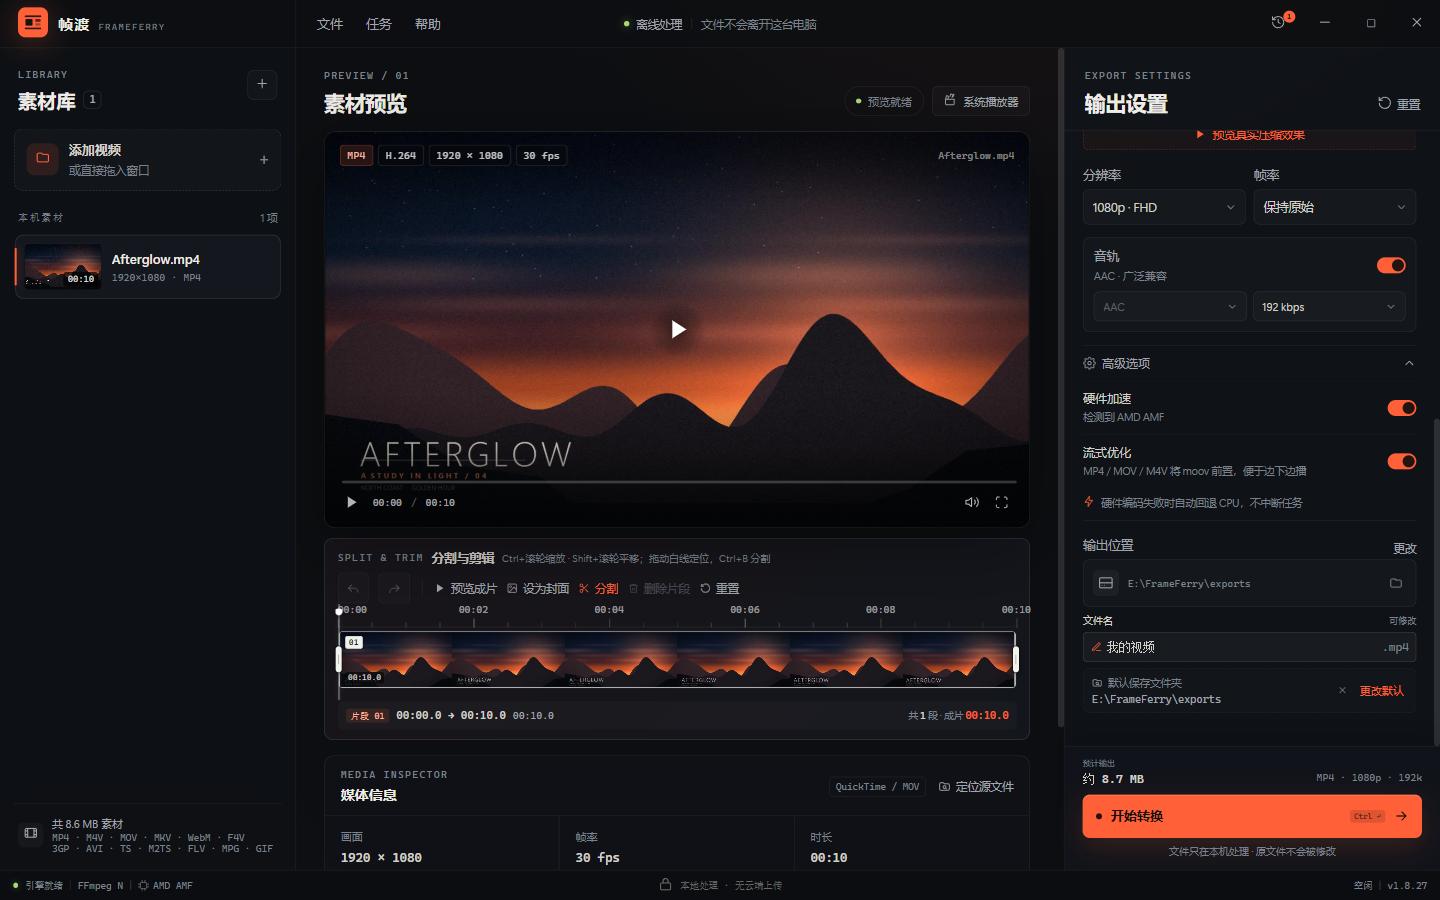
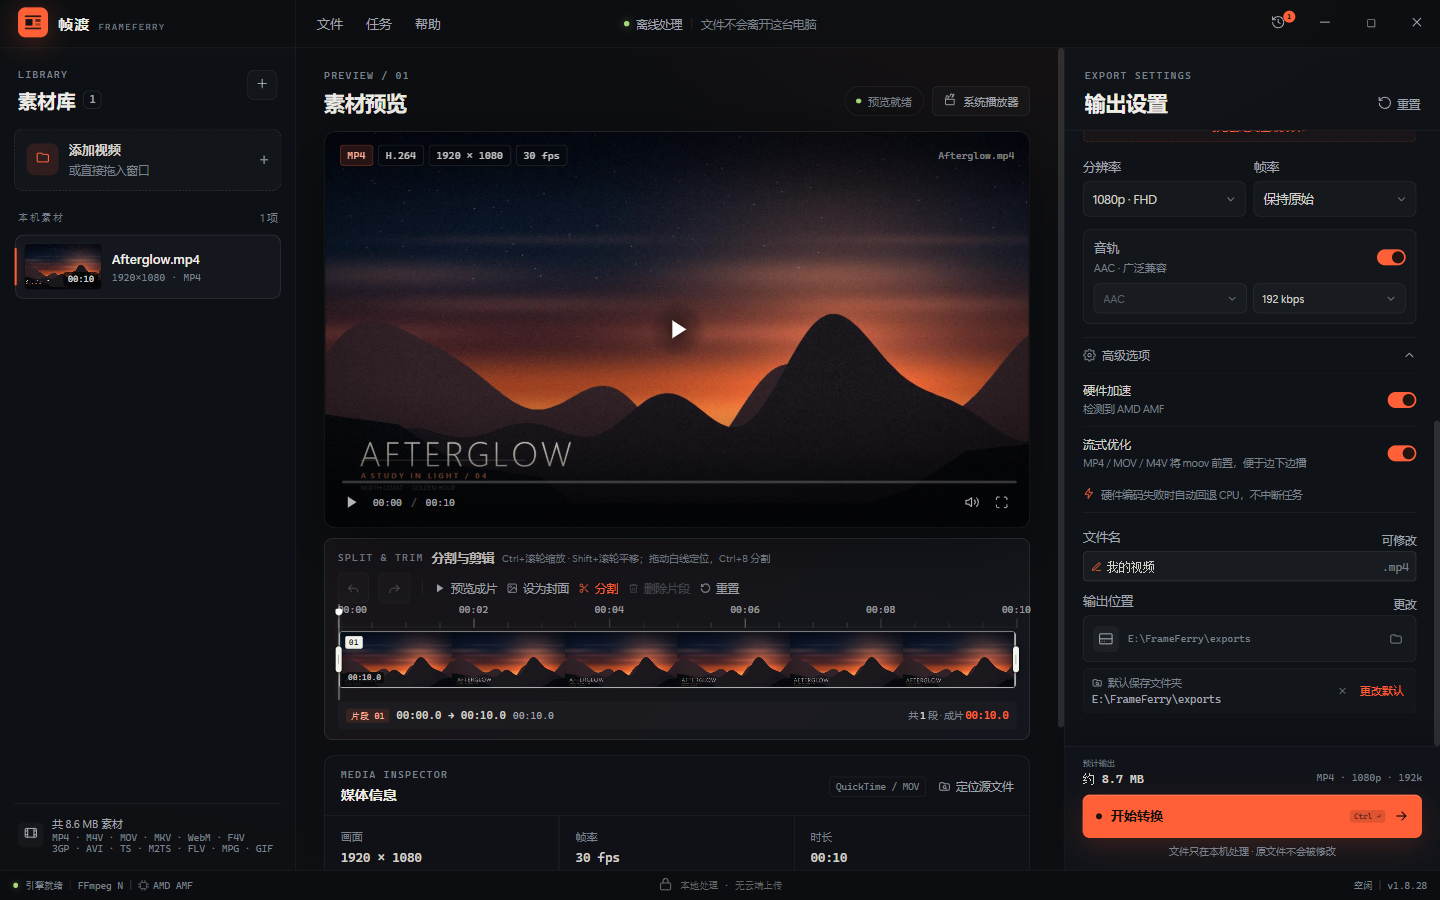
style: 交换文件名和输出位置并统一字号
文件名区域移到输出位置上方；两处标题统一 12.5px，右侧操作文字统一 11.5px。版本提升到 v1.8.28。

diff --git a/renderer/app.js b/renderer/app.js
@@ -1564,21 +1564,21 @@ function renderSettings() {
     </div>
 
     <div class="output-block">
-      <div class="quality-head"><div class="field-label"><span>输出位置</span></div><button class="text-button" data-action="choose-output" ${!file ? 'disabled' : ''}>更改</button></div>
+      <div class="quality-head"><div class="field-label"><span>文件名</span></div><span class="output-name-hint">可修改</span></div>
+      <div class="output-name-field">
+        <div class="output-name-line">
+          <span class="output-name-edit-icon">${icon('edit', 11)}</span>
+          <input class="output-name-input" id="output-name-input" value="${escapeHtml(outputStem)}" placeholder="输出文件名" spellcheck="false" aria-label="输出文件名" title="点击修改输出文件名" ${!file || !outputPath ? 'disabled' : ''}>
+          <span class="output-name-ext">.${escapeHtml(settings.format)}</span>
+        </div>
+      </div>
+      <div class="quality-head output-location-head"><div class="field-label"><span>输出位置</span></div><button class="text-button" data-action="choose-output" ${!file ? 'disabled' : ''}>更改</button></div>
       <div class="output-path">
         <div class="output-icon">${icon('hardDrive', 15)}</div>
         <div class="output-copy">
           <span class="output-dir" title="${escapeHtml(outputPath)}">${outputPath ? escapeHtml(directoryOf(outputPath)) : '与源文件相同的目录'}</span>
         </div>
         <button class="output-folder" data-action="show-output" title="打开输出位置">${icon('folder', 14)}</button>
-      </div>
-      <div class="output-name-field">
-        <div class="output-name-field-head"><span>文件名</span><small>可修改</small></div>
-        <div class="output-name-line">
-          <span class="output-name-edit-icon">${icon('edit', 11)}</span>
-          <input class="output-name-input" id="output-name-input" value="${escapeHtml(outputStem)}" placeholder="输出文件名" spellcheck="false" aria-label="输出文件名" title="点击修改输出文件名" ${!file || !outputPath ? 'disabled' : ''}>
-          <span class="output-name-ext">.${escapeHtml(settings.format)}</span>
-        </div>
       </div>
       <div class="default-folder">
         <div class="default-folder-copy">

diff --git a/renderer/styles.css b/renderer/styles.css
@@ -4826,21 +4826,16 @@ input:focus-visible {
 /* Editable output file name */
 
 .output-name-field {
-  margin-top: 7px;
+  margin-top: 0;
 }
 
-.output-name-field-head {
-  display: flex;
-  align-items: center;
-  justify-content: space-between;
-  margin-bottom: 5px;
-  color: var(--text-soft);
-  font-size: 10px;
+.output-name-hint {
+  color: var(--muted);
+  font-size: 11.5px;
 }
 
-.output-name-field-head small {
-  color: var(--dim);
-  font-size: 9px;
+.output-location-head {
+  margin-top: 11px;
 }
 
 .output-name-line {

diff --git a/docs/TEST_REPORT.md b/docs/TEST_REPORT.md
@@ -191,7 +191,8 @@
 | 文件名跟随格式 | 切到 MKV 后仍保留“我的视频”，路径变为 `我的视频.mkv`，后缀显示 `.mkv` |
 | 文件名清洗 | `a:b?c` 自动变为 `a_b_c`，重渲染后输入框同步显示清洗结果 |
 | 文件名输入框 | 30px 高、独立“文件名 / 可修改”一行，带边框、橙色编辑图标和格式后缀 |
-| 输出位置拆分 | 输出路径行只显示 E:\FrameFerry\exports 和打开按钮；文件名单独一行 |
+| 输出位置拆分 | 文件名在上、输出位置在下；输出路径行只显示目录和打开按钮 |
+| 文字统一 | 文件名/输出位置标题均为 12.5px；可修改/更改均为 11.5px |
 | Ctrl+滚轮缩放 | 1.25x 后可视 8.8s，标尺重排为 00:02/04/06/08；缩略图同步拉长 |
 | Shift+滚轮平移 | 向右平移后视图起点 2.2s，标尺变为 00:04–00:10 |
 | 横向滚动条 | 缩放后出现滑块，宽度按可视比例计算；点击轨道右侧后起点 2.2s，标尺变为 00:04–00:10 |
